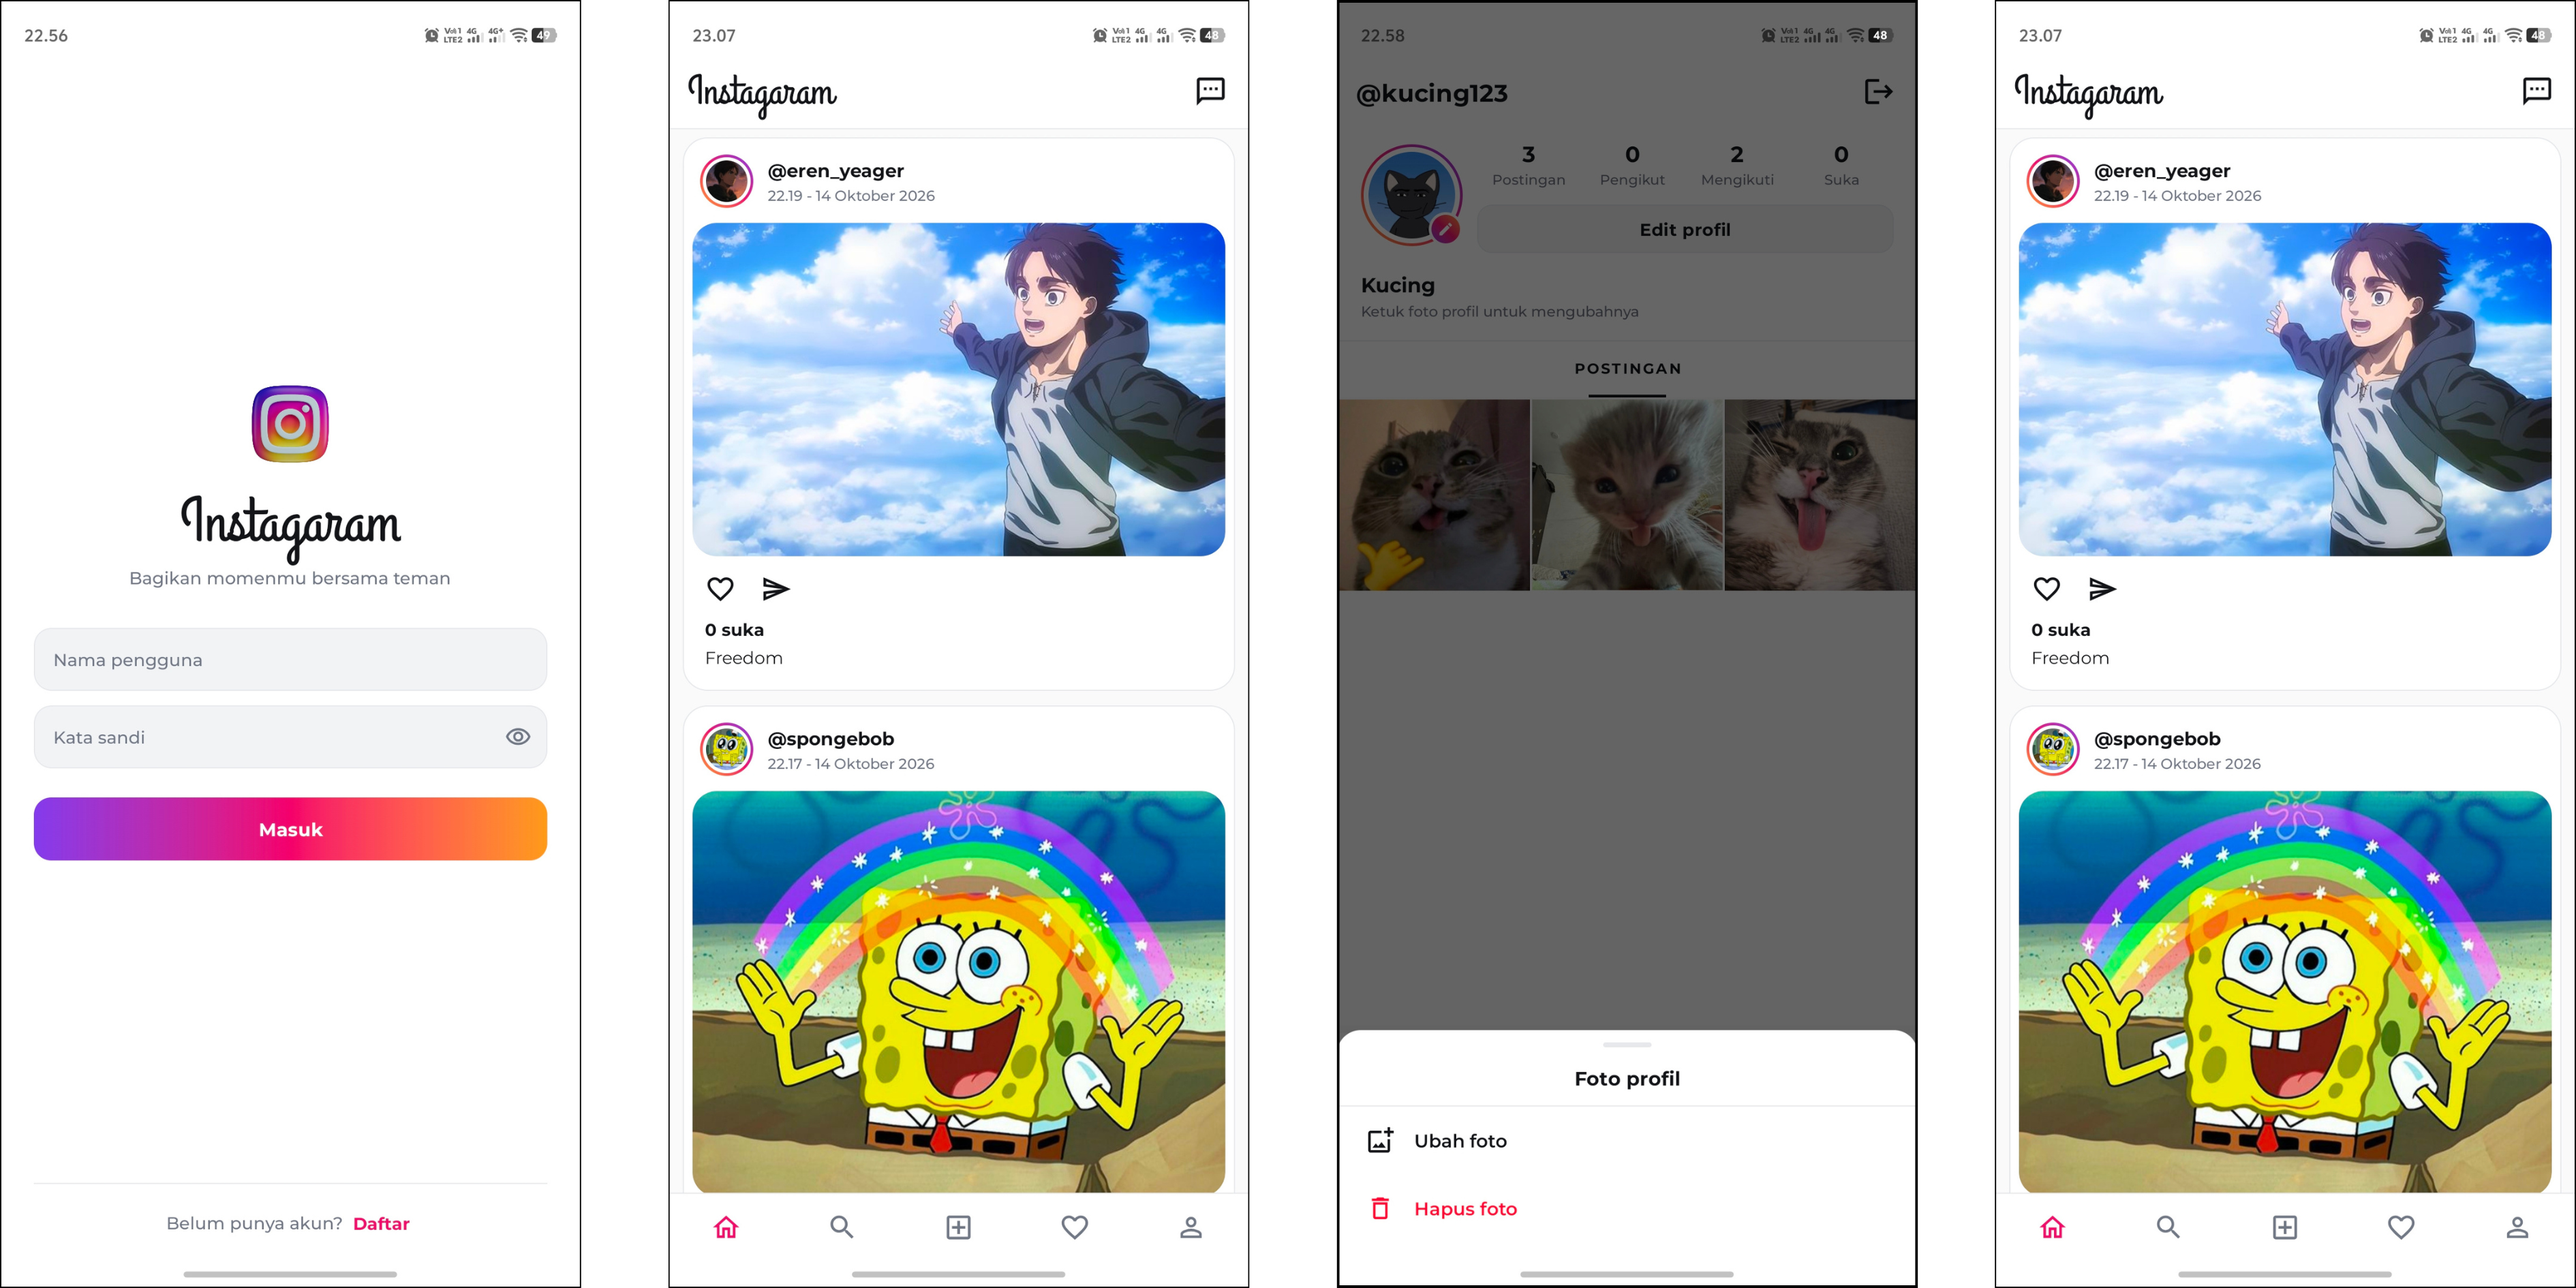
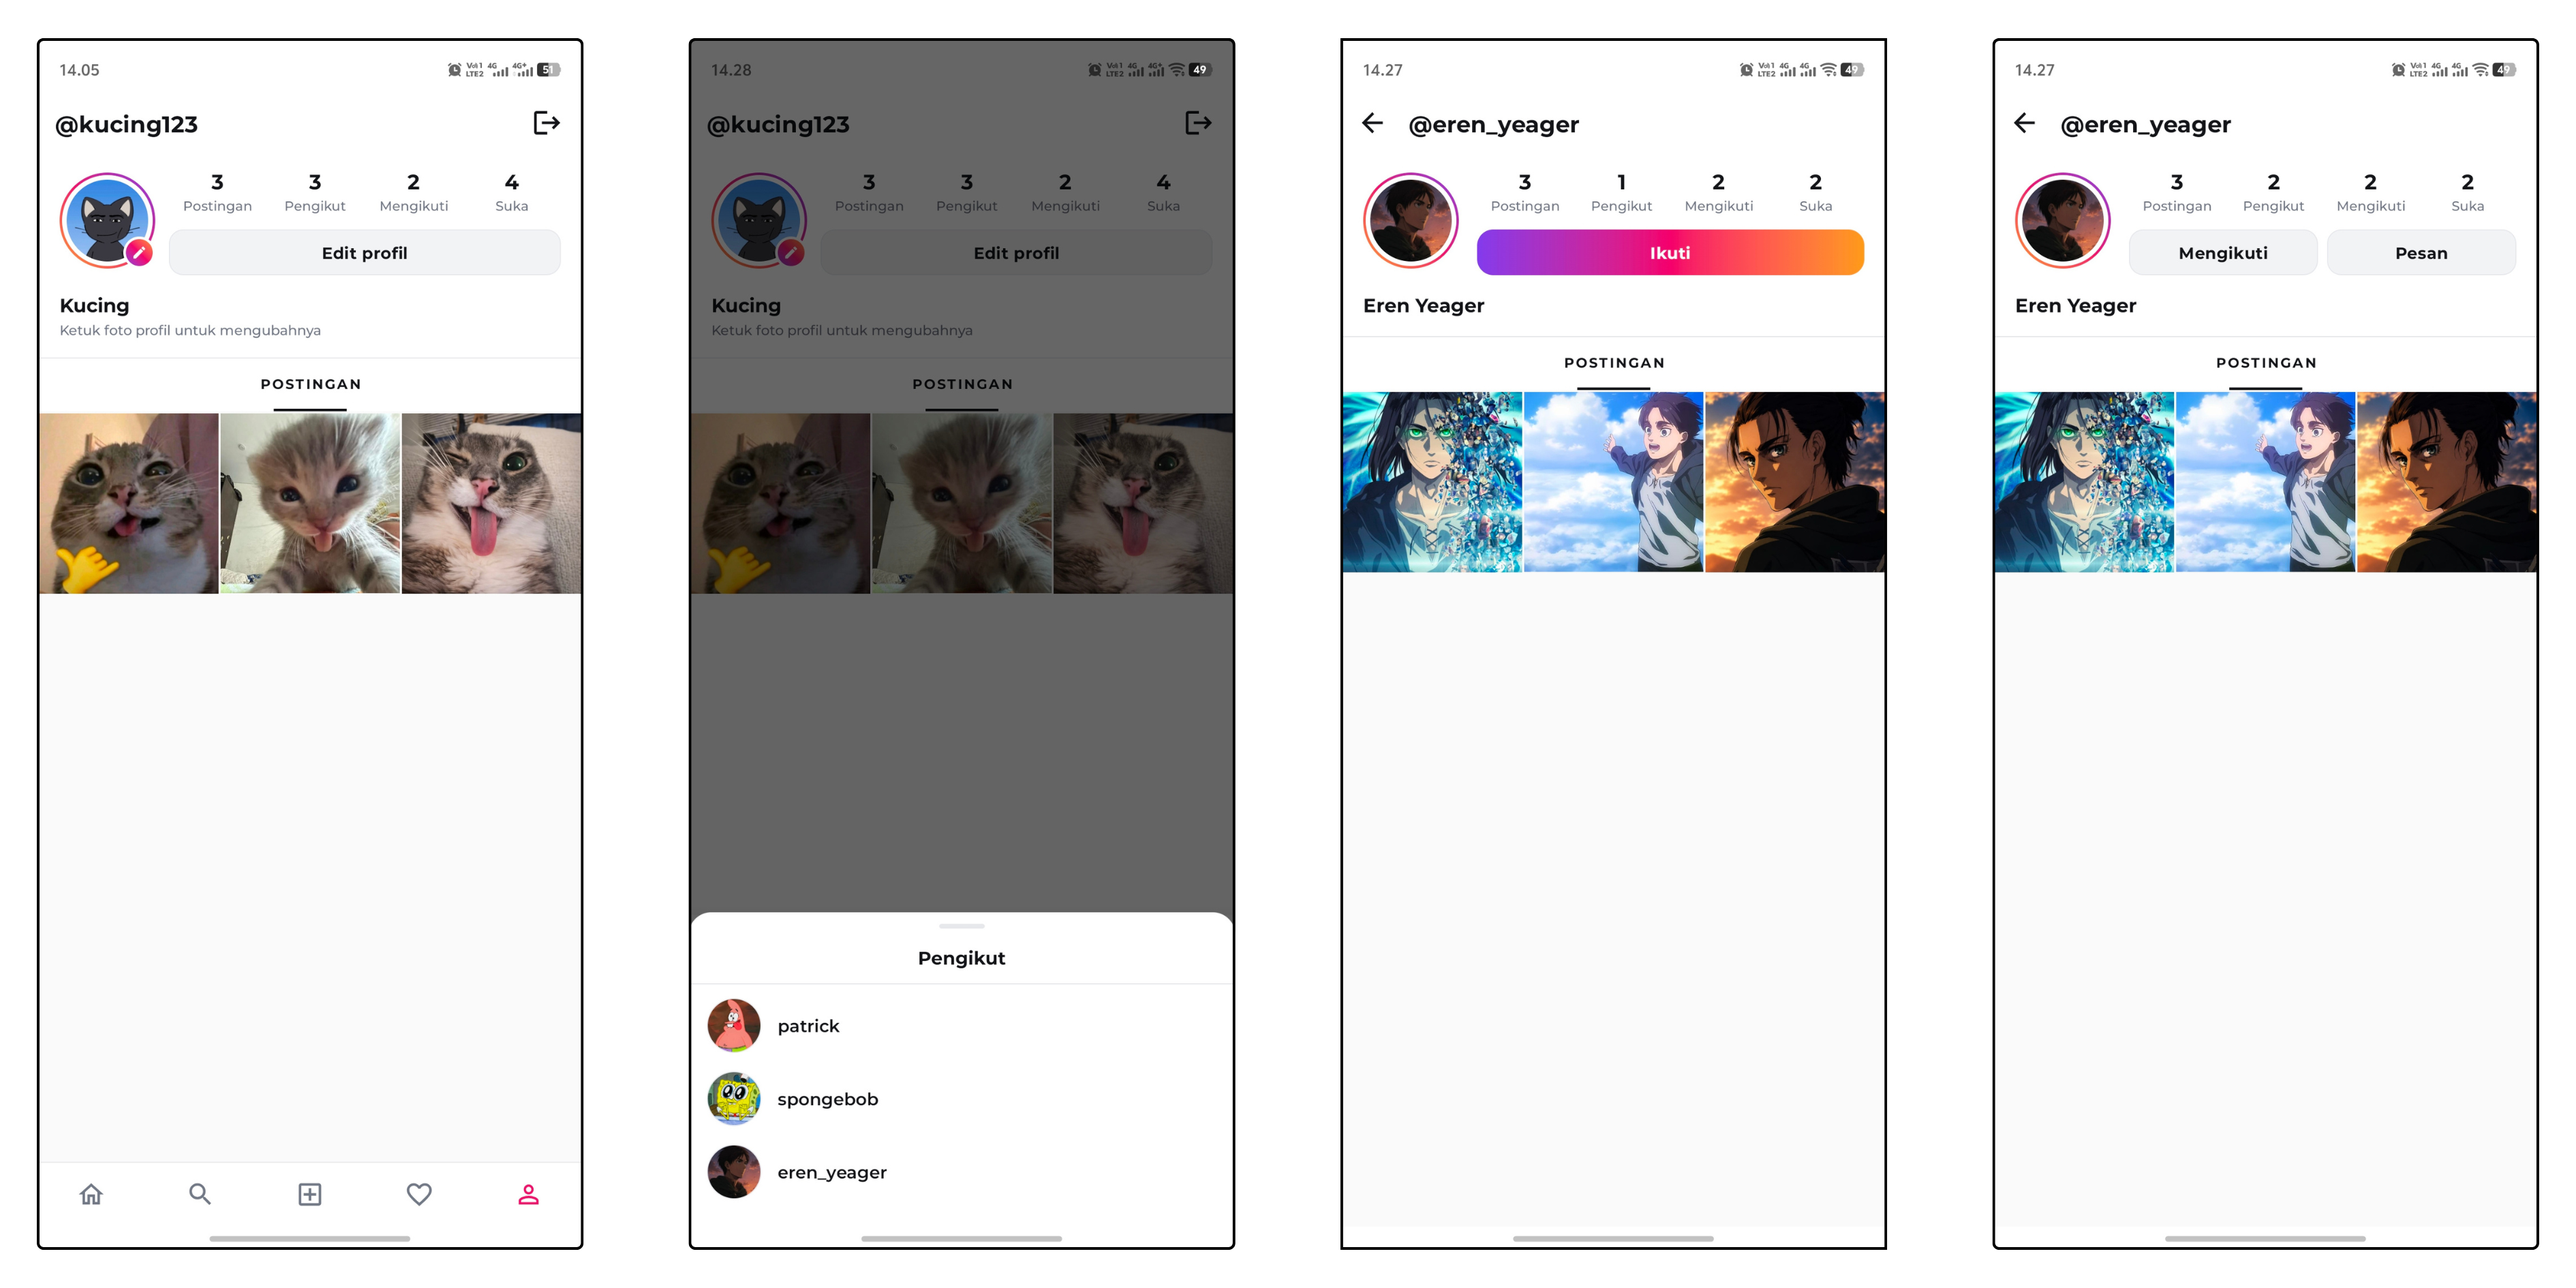
Initial commit

diff --git a/README.md b/README.md
@@ -42,19 +42,19 @@ Tersedia dalam **Bahasa Indonesia** dan **Inggris** (mengikuti bahasa perangkat)
 - Daftar pengikut dan mengikuti
 - Profil akun lain dengan tombol Ikuti / Mengikuti dan Pesan
 
-<p align="center"><img src="docs/screenshots/fitur4.png" alt="Fitur Profil" width="100%"></p>
+<p align="center"><img src="docs/screenshots/fitur4.png" alt="Fitur Profil" width="90%"></p>
 
 ### Pencarian
 - Cari akun berdasarkan username
 
-<p align="center"><img src="docs/screenshots/fitur5.png" alt="Fitur Pencarian" width="100%"></p>
+<p align="center"><img src="docs/screenshots/fitur5.png" alt="Fitur Pencarian" width="90%"></p>
 
 ### Aktivitas
 - "xxx Menyukai Postingan Anda" lengkap dengan thumbnail postingan
 - "xxx Mulai Mengikuti Anda"
 - Foto profil dan waktu di setiap baris; ketuk untuk membuka profil atau postingan
 
-<p align="center"><img src="docs/screenshots/fitur6.png" alt="Fitur Aktivitas" width="100%"></p>
+<p align="center"><img src="docs/screenshots/fitur6.png" alt="Fitur Aktivitas" width="90%"></p>
 
 ### Pesan Langsung
 - Daftar percakapan dengan pesan terakhir, diperbarui real-time
@@ -62,14 +62,14 @@ Tersedia dalam **Bahasa Indonesia** dan **Inggris** (mengikuti bahasa perangkat)
 - Chat real-time dengan pemisah tanggal dan status Online
 - Hapus pesan untuk semua orang (maks. 24 jam setelah dikirim)
 
-<p align="center"><img src="docs/screenshots/fitur7.png" alt="Fitur Pesan Langsung" width="100%"></p>
+<p align="center"><img src="docs/screenshots/fitur7.png" alt="Fitur Pesan Langsung" width="90%"></p>
 
 ### Notifikasi Push
 - Pesan baru, suka baru, dan pengikut baru
 - Ketuk notifikasi untuk langsung membuka chat, postingan, atau profil terkait
 - Kanal terpisah (Chat, Suka, Pengikut) yang bisa diatur masing-masing di pengaturan Android
 
-<p align="center"><img src="docs/screenshots/fitur8.png" alt="Fitur Notifikasi Push" width="100%"></p>
+<p align="center"><img src="docs/screenshots/fitur8.png" alt="Fitur Notifikasi Push" width="90%"></p>
 
 ---
 
